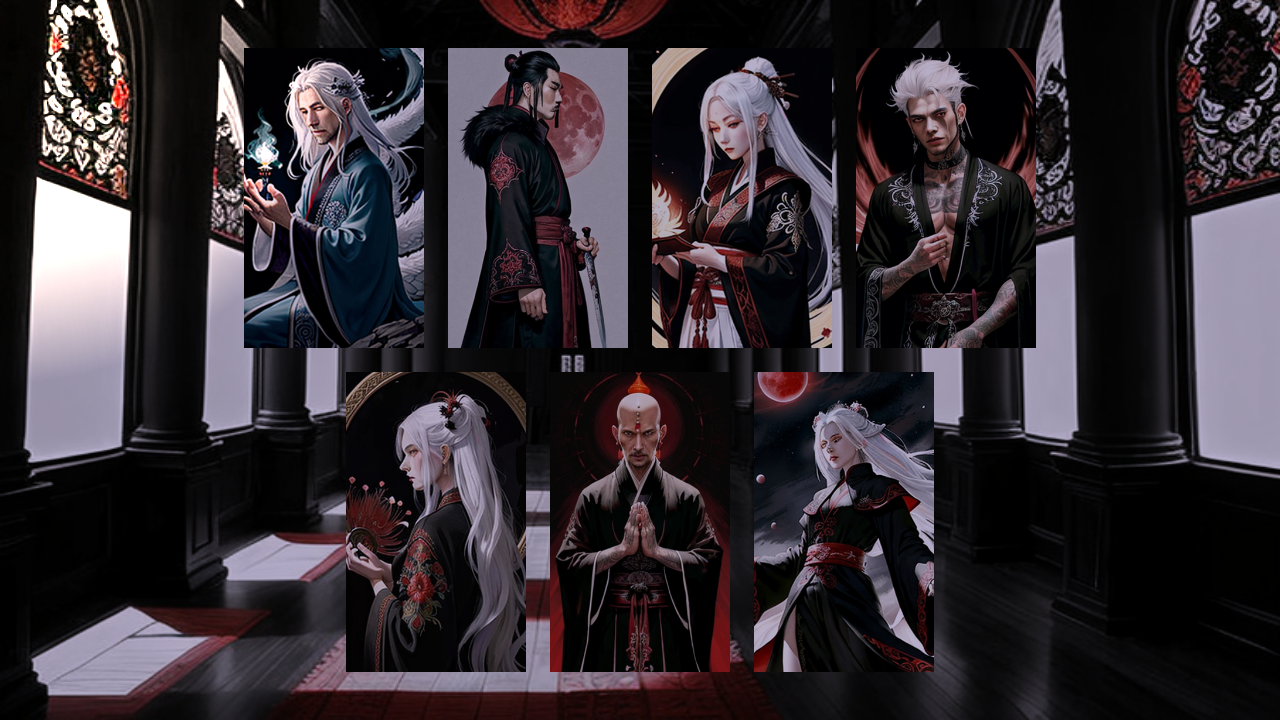
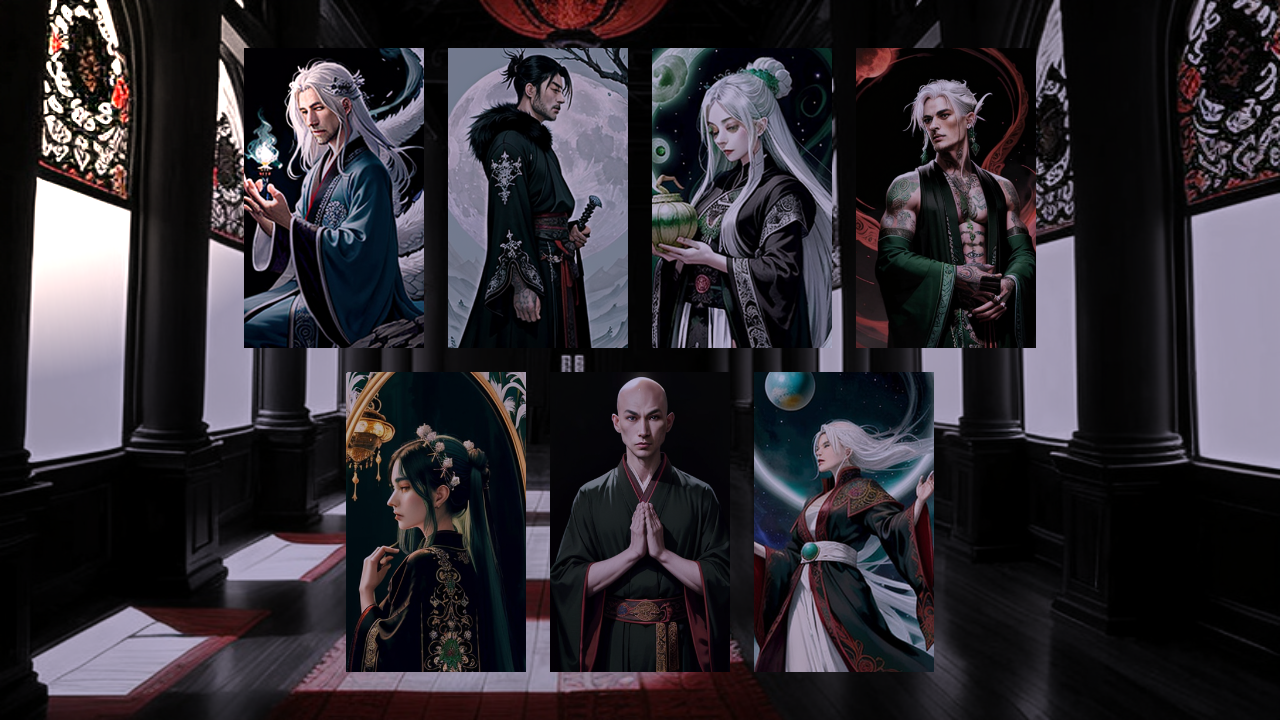
roster: element_swap semantics — deploy:swap variants repaint base members
- publish emits variant_of (variant component -> base member) in jobs.json
- runner: *swap* shots swap member textures to variant assets and restore
  after capture; swapped ids reported in shot_resolve; ui_map gives card
  members a focus target (fixes cards being unfocusable)
- card_focus renamed sage_card_focus — token "card" matched all six
  cards ambiguously; sage resolves deterministically to xx_card_azure_sage
- ledger #55 closed: all 3 roster shots resolve, 6 cards repaint jade

Generated with [Devin](https://devin.ai)

Changed region(s): [[0.25, 0.5194, 0.75, 0.9472], [0.3438, 0.0611, 0.8125, 0.4889]]

diff --git a/tools/publish.py b/tools/publish.py
@@ -146,9 +146,15 @@ def main(goal, unit_only, wait):
     for m in members:
         m["patrol"] = m["id"] == patroller
 
-    # variants: "cast" deploy joins the scene (crew-style); "swap" stays library
+    # variants: "cast" deploy joins the scene (crew-style); "swap" stays
+    # library — the runner pulls them into the frame for *swap* shots via
+    # variant_of (variant component -> base member it repaints)
+    variant_of = {}
     v_i = 0
     for cid, vids in variants.items():
+        of = briefs.get(cid, {}).get("of")
+        if of:
+            variant_of[cid] = of
         if briefs.get(cid, {}).get("deploy", "cast") == "swap":
             continue
         row = layout.get(f"{cid}_row", row_ids[-1])
@@ -212,7 +218,8 @@ def main(goal, unit_only, wait):
                            "layout": spec.get("layout", {}),
                            "members": members, "dialogue": dialogue,
                            "layers": layers, "shots": spec["shots"],
-                           "variants": variants, "glbs": glbs,
+                           "variants": variants, "variant_of": variant_of,
+                           "glbs": glbs,
                            "shot_expect": spec.get("shot_expect", {}),
                            "action_shots": spec.get("action_shots", [])}}
     job_path = os.path.join(comp_dir, "jobs.json")

diff --git a/reports/BUG_LEDGER.md b/reports/BUG_LEDGER.md
@@ -79,7 +79,7 @@ Format: bug → where caught → fix applied → gate that owns it now.
 | 52 | Patroller frozen in walk texture for every static shot — vista/pair show immortal_m mid cloud_step while standing still | harness | vista_all.png/terrace_pair.png vs processed/sprite_idle.png | overlap sim (runner.gd ~450-475) sets patroller.texture per step, never restores sprite_idle before shots | A3 | FIXED — sprite_idle stored before sim and restored before captures |
 | 53 | Unresolved shot names silently decoy: meditation_close/sword_salute/sleeve_dance byte-identical to vista_all; roster card_focus/element_swap identical to select_grid — and all 3 roster dupes are blessed goldens | harness | sha256 collisions across shots dirs | _setup_shot falls through to wide frame when no member-token/keyword matches; no unresolved-name reporting; golden blesses whatever the decoy captured | A3 | FIXED — shot_resolve map reports ok/unresolved per shot; unresolved shots force pass:null |
 | 54 | salute_sync capture camera "terrace" not in CAP_CAMS → mid fallback; witness framed out | harness | salute_sync_t0p6.png shows one figure | camera token silently defaults | A3 | FIXED — unknown cam tokens resolve as unresolved:token (no silent mid); brief token corrected to wide |
-| 55 | Jade variant members never placed in roster scene — jobs members has only 7 base cards; element_swap intent unreachable | brief | jobs.json members vs 6 certified jade components | spec/scaffold never emitted variant members | A3 | OPEN — authoring gap |
+| 55 | Jade variant members never placed in roster scene — jobs members has only 7 base cards; element_swap intent unreachable | brief+runner | jobs.json members vs 6 certified jade components | publish skipped deploy:swap variants with no of-mapping; runner had no swap semantics and ui members were unfocusable | A3 | FIXED — jobs.json variant_of map; runner repaints base member textures for *swap* shots (+ _restore_swaps); ui_map focus branch; card_focus renamed sage_card_focus ("card" token matched all 6 cards ambiguously) |
 | 56 | xx_sage_staff certified as a round medallion ornament — no shaft, must_have "silver-dark shaft"/"full weapon visible" violated | component | unit_render/neutral.png vs brief must_have | C3 checklist scores fringe/lighting but never checks must_have semantics; heavy vector outline also clashes with painterly sprites | C3 | FIXED — contract_check.py runs executable must_have/must_not at certify (palette/aspect/glb structure); sprite staff routed needs_human after 2 failed regen rounds; 3D staff covers the role |
 | 57 | xx_ribbon certified as a spiral jade disk — not a continuous ribbon; teal vs brief's "crimson silk" | component | unit_render/neutral.png vs brief | same gate gap as #56 | C3 | FIXED — regenerated (s1083 crimson S-curve); contract gate palette 9.5% red vs 0.004% before |
 | 58 | Pose-semantics regressions persist in certified immortal_m poses: sword_salute has no sword + detached shoulder shards (must_not "wings"); meditate_lotus floats upright; cloud_step rib-cage artifacts + purple foot-glow | component | processed/sprite_*.png vs pose prompt_extra | #13's guide fix covered structure; certified files still don't depict pose names | C1/C3 | PARTIAL — poses re-generated with guide (structure correct: lotus tuck, salute arms, mist step); residual artifacts documented in vision.json waiver (halo, float-trail, step glyph); sword still absent → prop-composite route per #13 |
